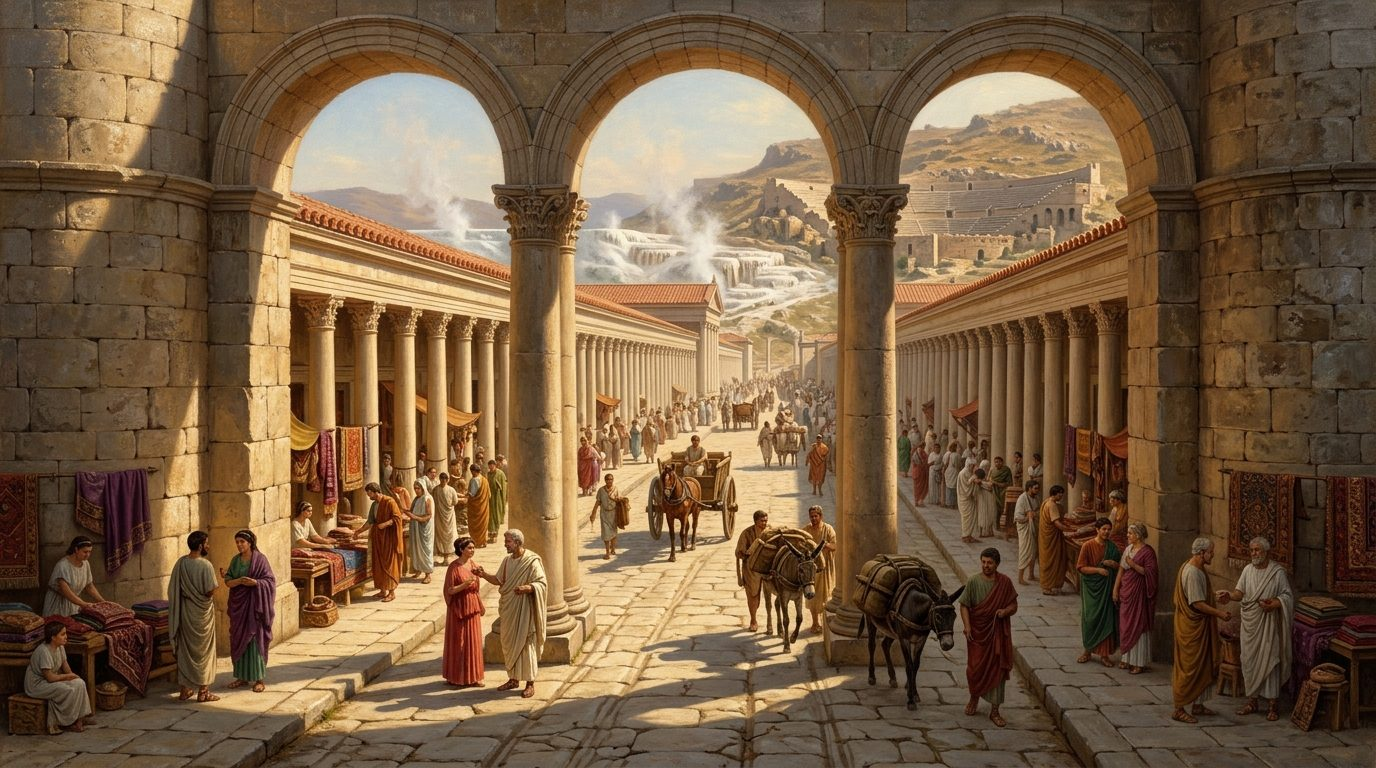
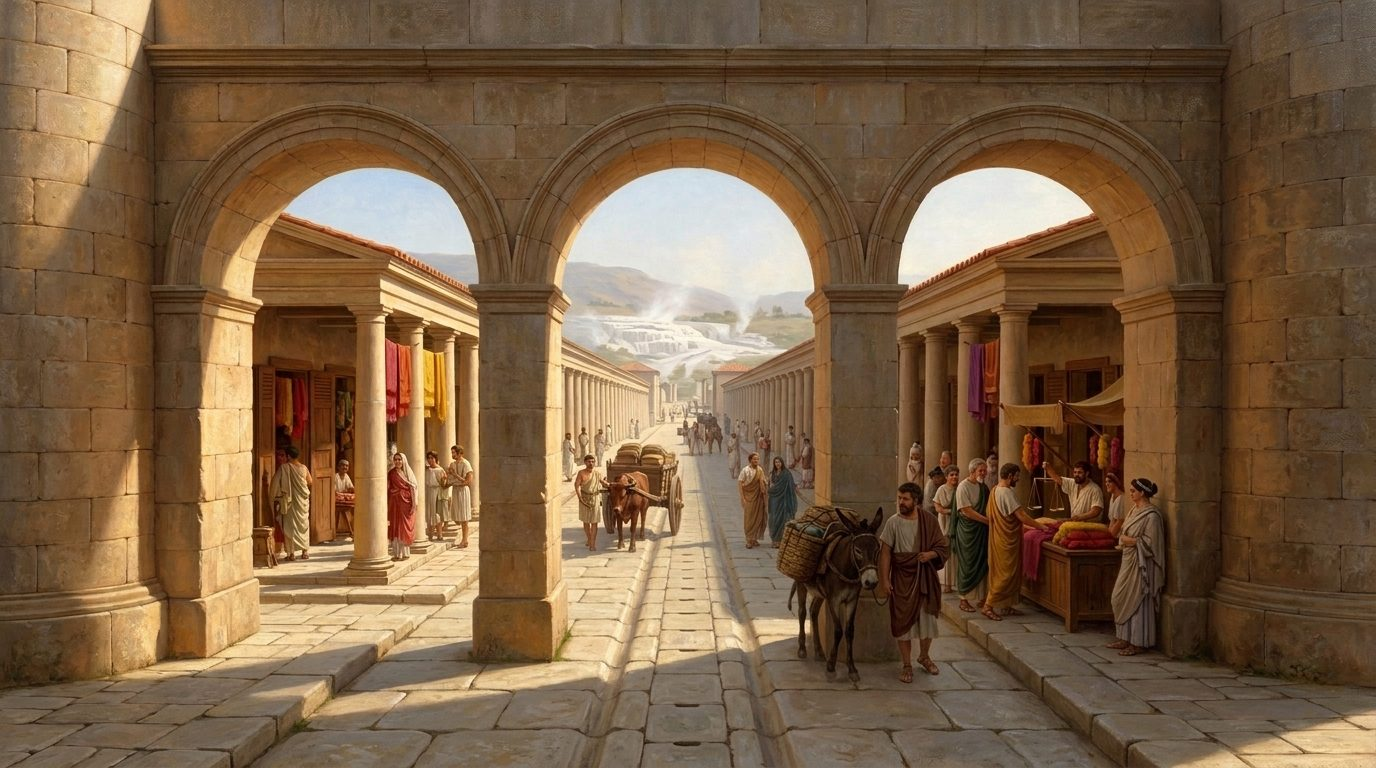
Replace inaccurate Ploutonion and plateia paintings and show period art in landmark cards

diff --git a/src/ui/LandmarkPanel.tsx b/src/ui/LandmarkPanel.tsx
@@ -44,7 +44,7 @@ export function LandmarkPanel() {
     >
       {l && (
         <div>
-          <Gallery key={l.id + lang} renders={l.renders ?? []} photos={l.images} name={lname(l, lang, era)} />
+          <Gallery key={l.id + lang} renders={l.renders ?? []} paintings={l.paintings ?? []} photos={l.images} name={lname(l, lang, era)} />
           <div className="p-5 sm:p-6">
             <div className="flex items-start justify-between gap-3">
               <div>
@@ -102,12 +102,15 @@ export function LandmarkPanel() {
   )
 }
 
-function Gallery({ renders, photos, name }: { renders: string[]; photos: Img[]; name: string }) {
+function Gallery({ renders, paintings, photos, name }: { renders: string[]; paintings: string[]; photos: Img[]; name: string }) {
   const t = useT()
   const today = photos.filter((p) => p.kind !== 'archive')
   const archive = photos.filter((p) => p.kind === 'archive')
   const tabs = [
-    { id: 'render', label: '◭ ' + t('tabRender'), items: renders.map((src) => ({ src, credit: t('reconstruction') }) as Img) },
+    { id: 'render', label: '◭ ' + t('tabRender'), items: [
+      ...renders.map((src) => ({ src, credit: t('reconstruction') }) as Img),
+      ...paintings.map((src) => ({ src, credit: t('aiPainting') }) as Img),
+    ] },
     { id: 'today', label: '◉ ' + t('tabToday'), items: today },
     { id: 'archive', label: '✎ ' + t('tabArchive'), items: archive },
   ].filter((x) => x.items.length > 0)

diff --git a/src/i18n.ts b/src/i18n.ts
@@ -52,6 +52,7 @@ const STRINGS = {
   zoomOut: { en: 'Zoom out', tr: 'Uzaklaştır' },
   resetView: { en: 'Reset view', tr: 'Görünümü sıfırla' },
   author: { en: 'Created by Ferial Ara · Master’s programme, Yaşar University, İzmir · Fall 2026', tr: 'Hazırlayan: Ferial Ara · Yüksek Lisans, Yaşar Üniversitesi, İzmir · Güz 2026' },
+  aiPainting: { en: 'AI-generated illustration · an interpretation, not a record', tr: 'Yapay zekâ ile üretilmiş resim · bir yorumdur, belge değildir' },
   tabRender: { en: '3D reconstruction', tr: '3B canlandırma' },
   tabToday: { en: 'Today', tr: 'Bugün' },
   tabArchive: { en: 'Archive & finds', tr: 'Arşiv ve buluntular' },

diff --git a/src/content/landmarks.ts b/src/content/landmarks.ts
@@ -314,7 +314,15 @@ const base: Landmark[] = [
   },
 ]
 
+/** Interpretive period paintings (Google Stitch, prompts in the "Hierapolis art" Stitch projects). */
+const PAINTINGS: Record<string, string[]> = {
+  ploutonion: ['/art/ploutonion-rite.jpg'],
+  theatre: ['/art/theatre-festival.jpg'],
+  'frontinus-street': ['/art/plateia-roman.jpg'],
+}
+
 export const LANDMARKS: Landmark[] = base.map((l) => ({
   ...l,
+  paintings: PAINTINGS[l.id],
   images: IMAGES[l.id] ?? l.images,
   renders: l.builder ? [`/renders/${l.id}.jpg`, `/renders/${l.id}-2.jpg`] : [], audio: { en: audioIf(`/audio/en/${l.id}.mp3`), tr: audioIf(`/audio/tr/${l.id}.mp3`) } }))

diff --git a/src/content/types.ts b/src/content/types.ts
@@ -27,6 +27,8 @@ export interface Landmark {
   images: Img[]
   /** reconstruction renders captured from the 3D scene (public/renders) */
   renders?: string[]
+  /** AI-generated period paintings (public/art), shown after the renders and labelled as illustrations */
+  paintings?: string[]
   sources: Source[]
   /** procedural builder from src/scene/generators (BUILDERS key) */
   builder?: string
